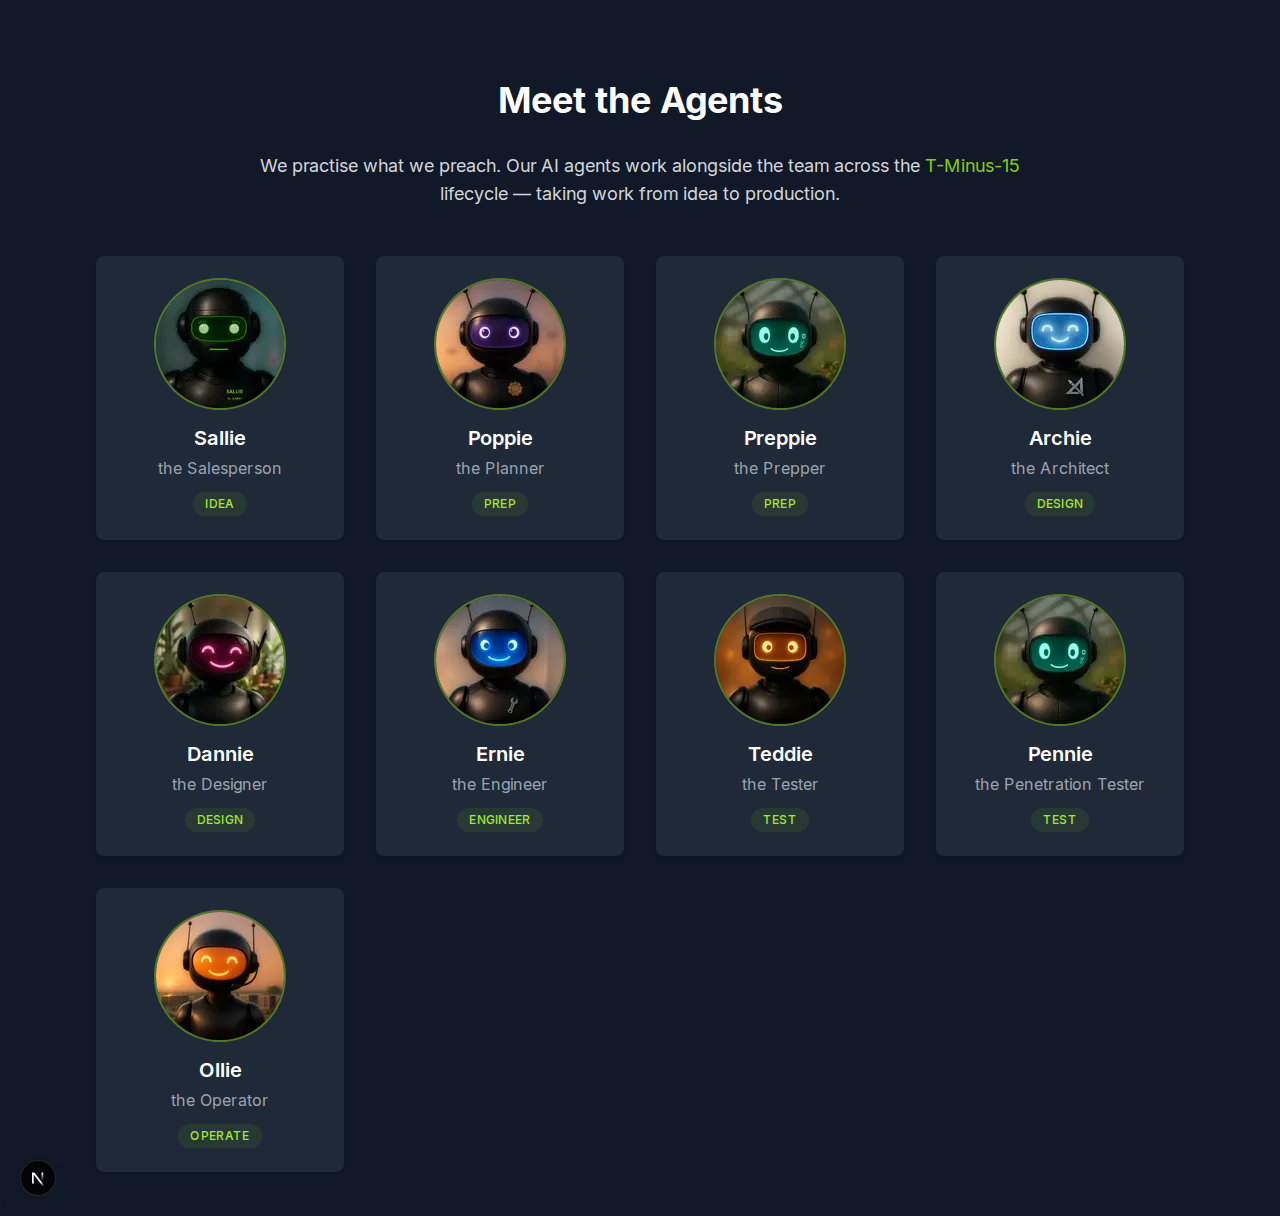
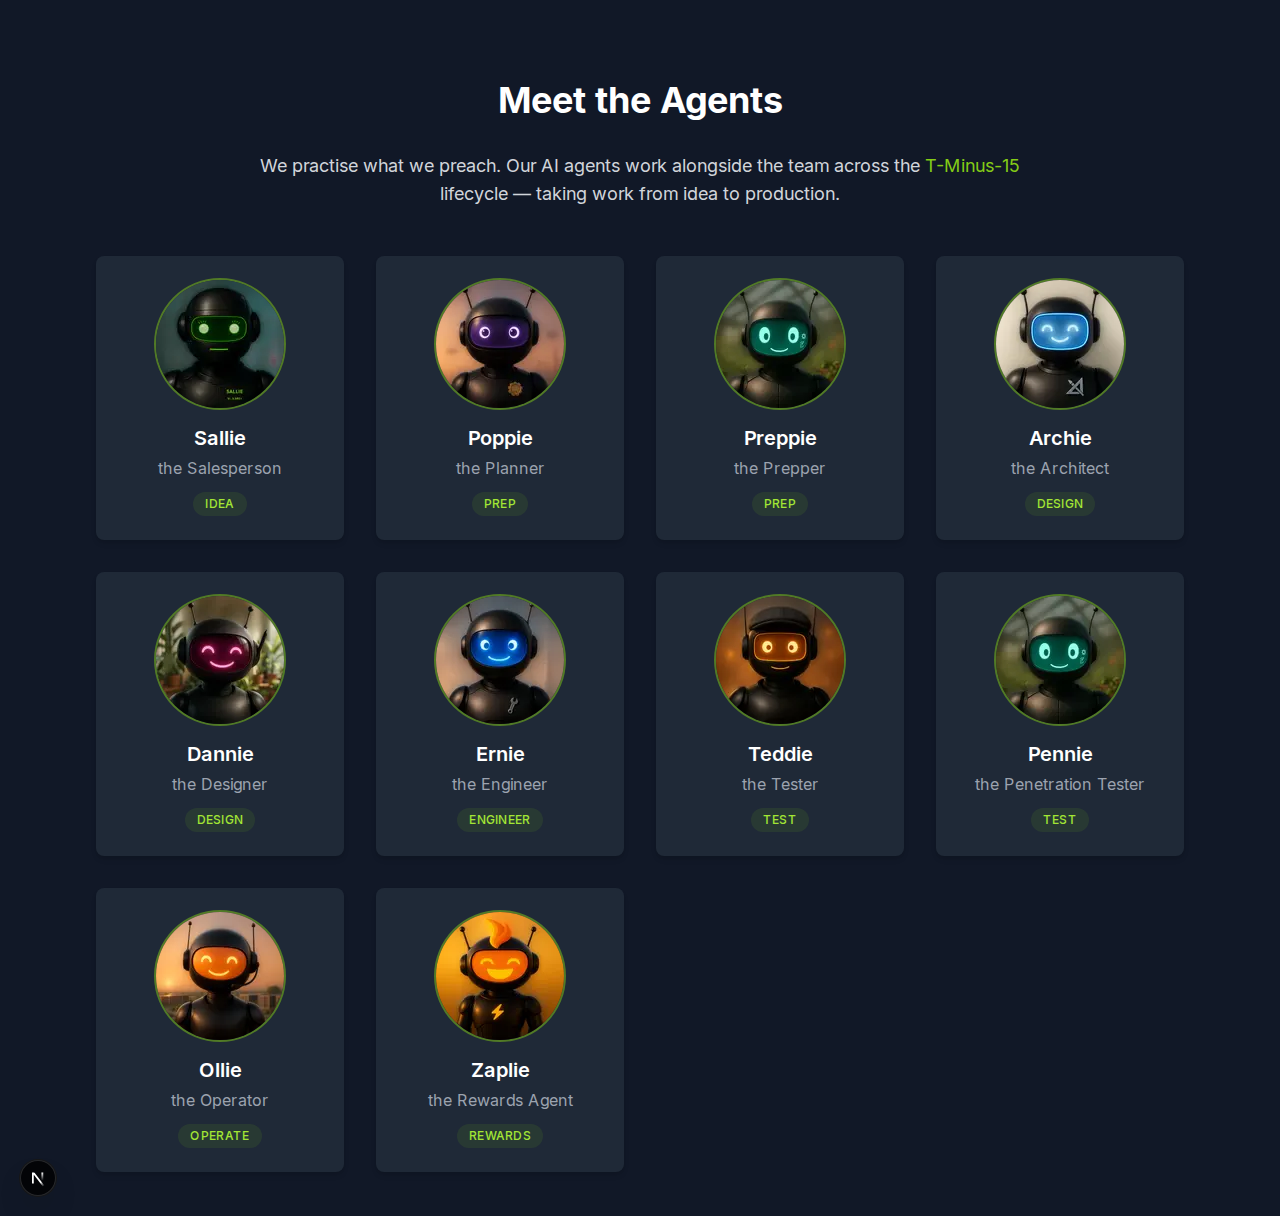
feat: add Zaplie the Rewards Agent to Meet the Agents
Claude-Session: https://claude.ai/code/session_01UzJ7i2xhbqKdiKk7eGYZvx

Changed region(s): [[0.3125, 0.75, 0.4688, 0.9688]]

diff --git a/components/agents-section.tsx b/components/agents-section.tsx
@@ -24,6 +24,12 @@ const agents: Agent[] = [
     image: '/images/agents/pennie.jpg',
   },
   { name: 'Ollie', role: 'the Operator', phase: 'Operate', image: '/images/agents/ollie.jpg' },
+  {
+    name: 'Zaplie',
+    role: 'the Rewards Agent',
+    phase: 'Rewards',
+    image: '/images/agents/zaplie.jpg',
+  },
 ];
 
 export default function AgentsSection() {
